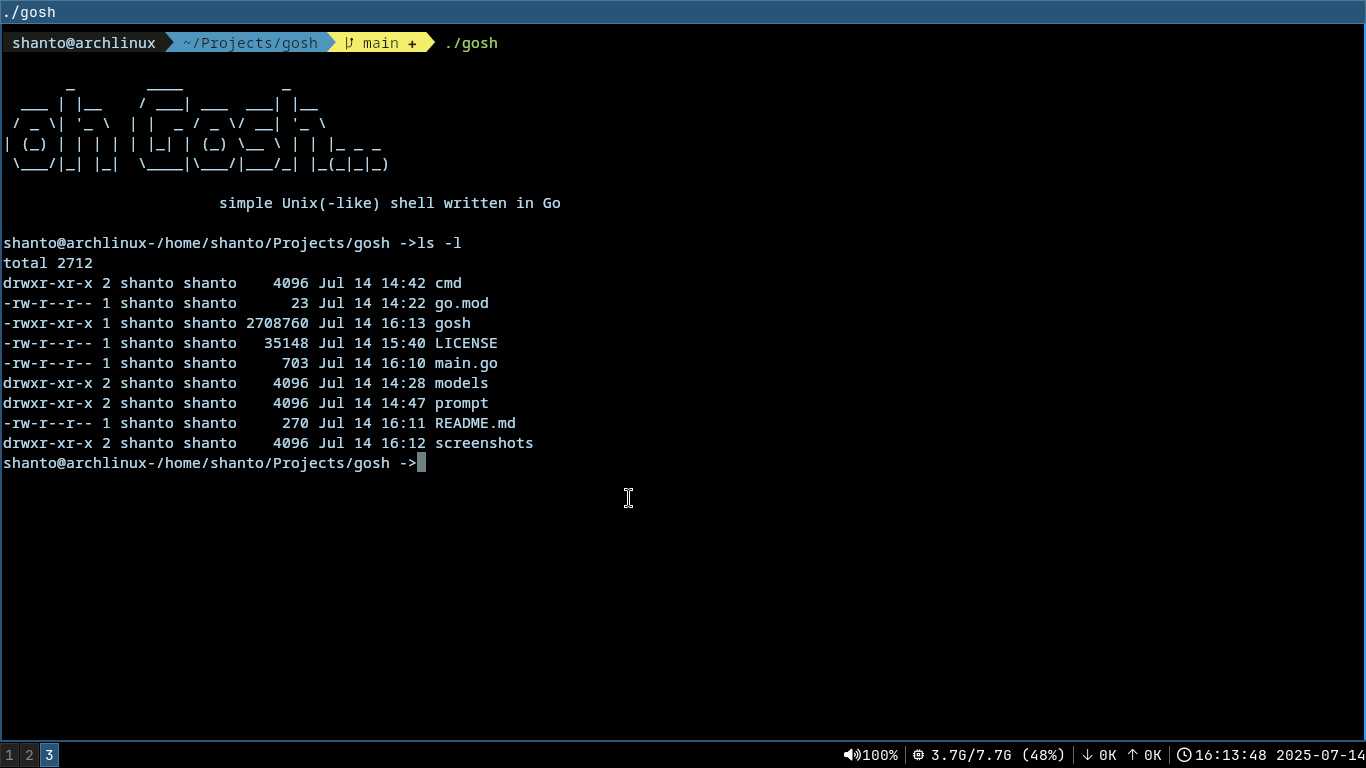
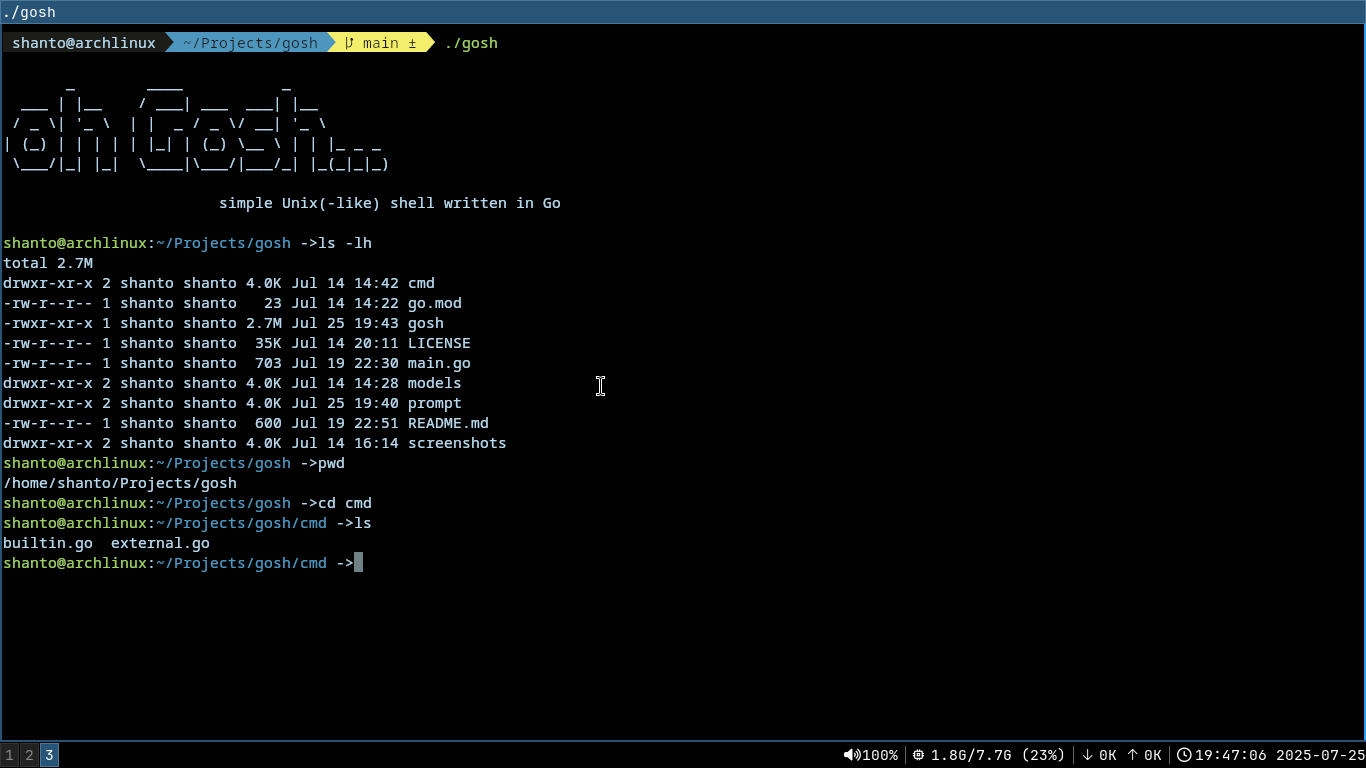
added colors in prompt

Changed region(s): [[0.0, 0.3125, 0.3997, 0.75], [0.9839, 0.9688, 1.0, 1.0], [0.8917, 0.9688, 0.9224, 1.0]]

diff --git a/prompt/prompt.go b/prompt/prompt.go
@@ -8,6 +8,17 @@ import (
 	"strings"
 )
 
+// ANSI color codes
+const (
+	Reset  = "\033[0m"
+	Red    = "\033[31m"
+	Green  = "\033[32m"
+	Yellow = "\033[33m"
+	Blue   = "\033[34m"
+	Purple = "\033[35m"
+	Cyan   = "\033[36m"
+)
+
 func InitUser() (*models.User, error) {
 	var usr models.User
 
@@ -37,7 +48,7 @@ func InitUser() (*models.User, error) {
 func Show(usr *models.User, flag bool) {
 	if flag && usr != nil {
 		BetterPwd(usr)
-		fmt.Printf("%v@%v:%v ->", usr.Username, usr.Hostname, usr.Pwd)
+		fmt.Printf("%s%v@%v%s:%s%v%s ->", Green, usr.Username, usr.Hostname, Reset, Blue, usr.Pwd, Reset)
 	} else {
 		fmt.Print("->")
 	}
